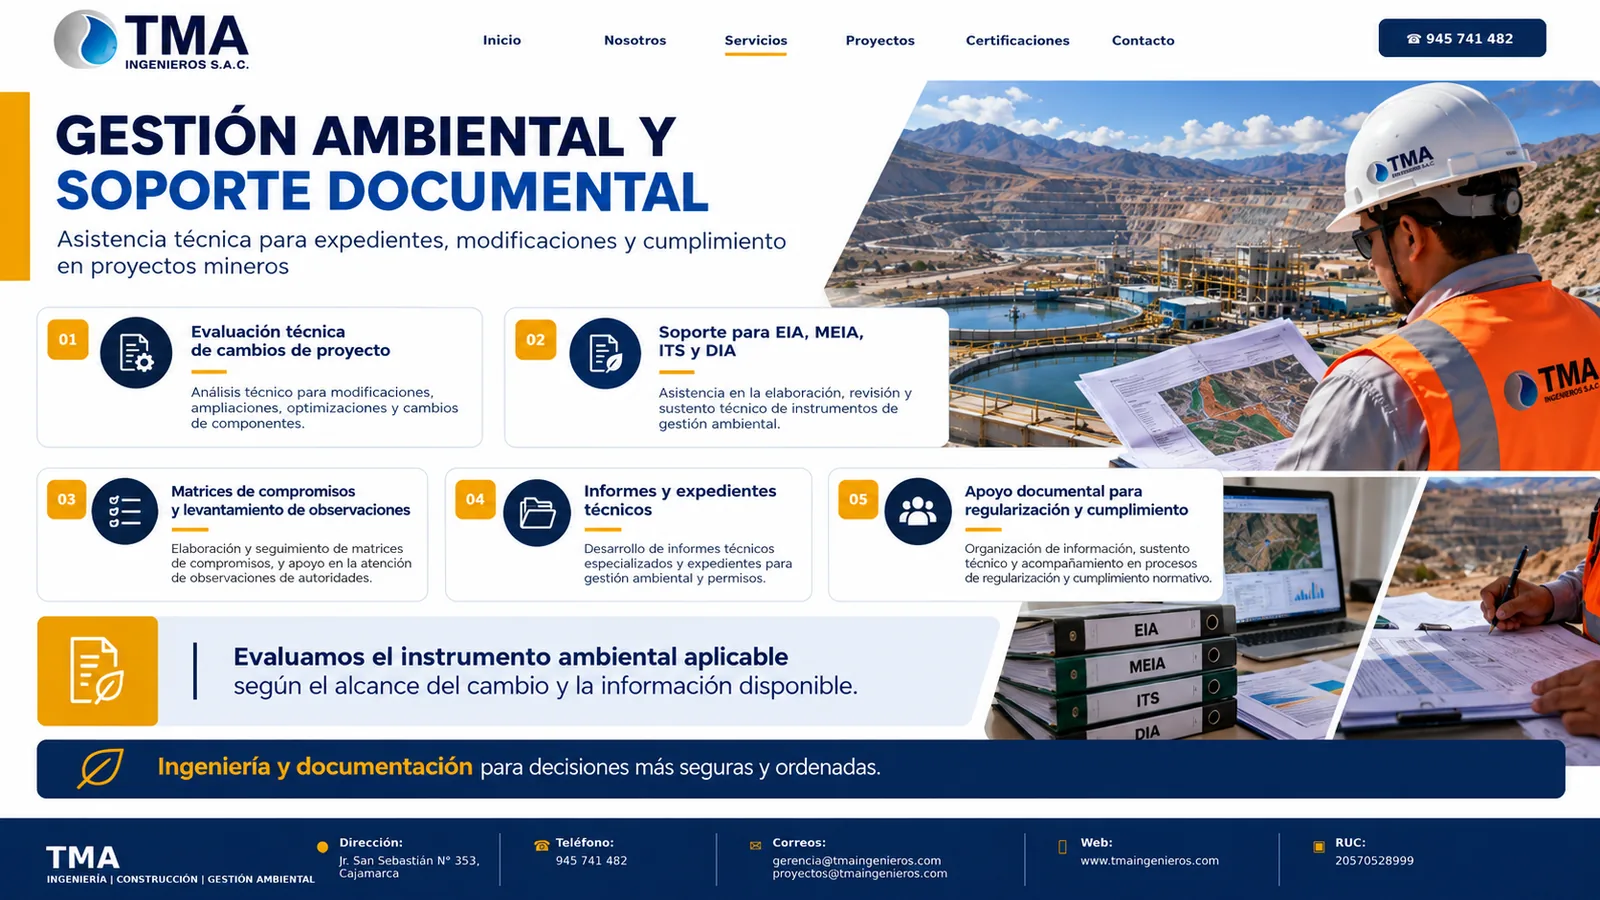
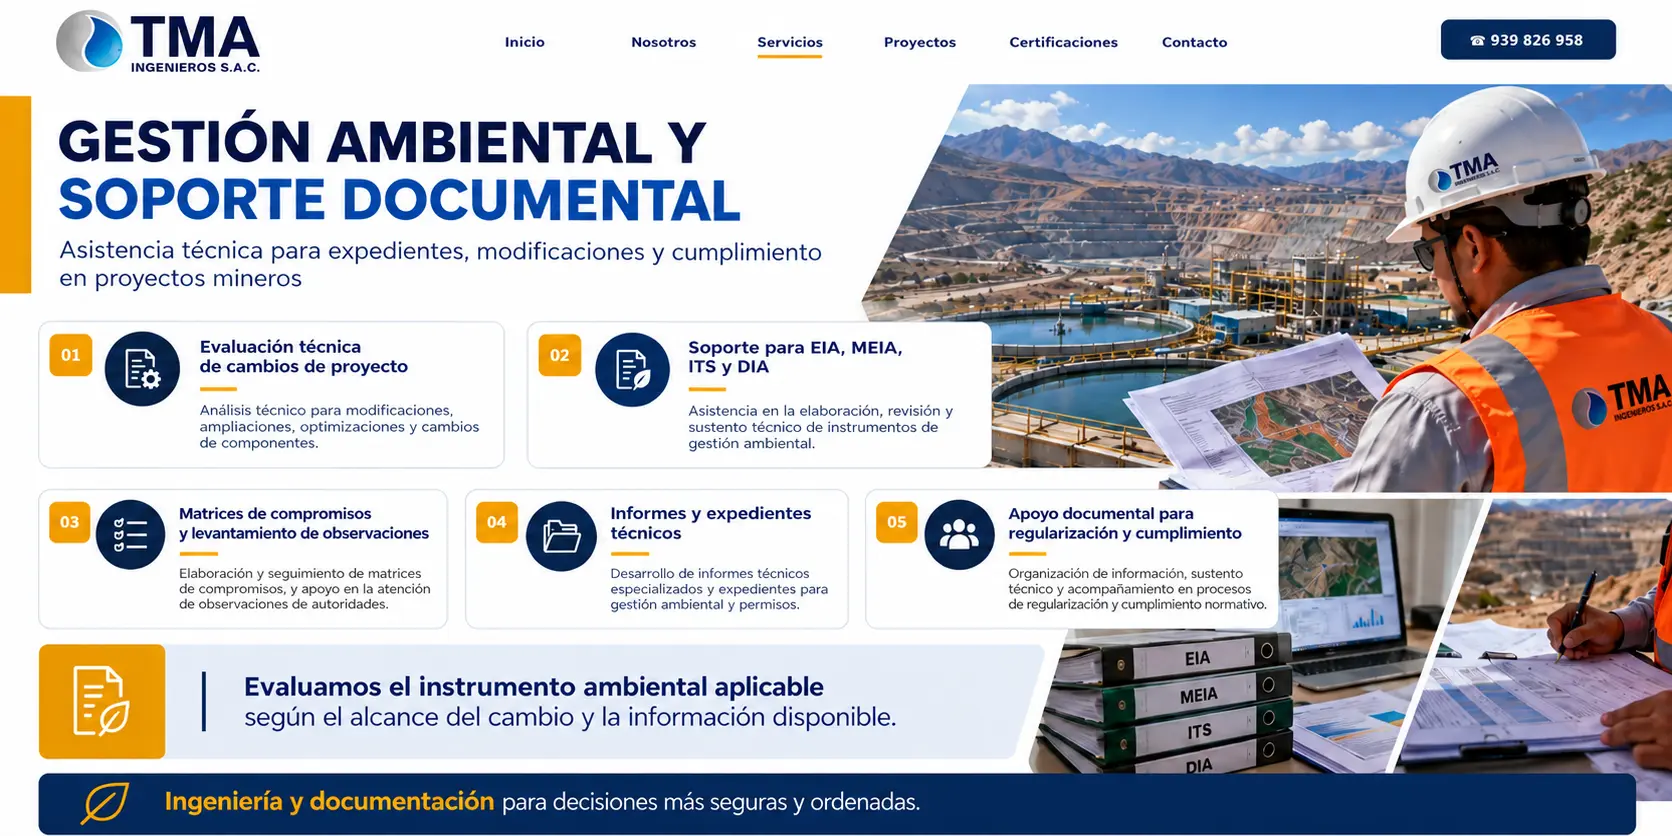
Ajustes: WhatsApp, tabla experiencias sin sustento, inicio y asistencial remota

diff --git a/src/pages/Contacto.tsx b/src/pages/Contacto.tsx
@@ -9,17 +9,33 @@ const EMAILJS_SERVICE_ID = import.meta.env.VITE_EMAILJS_SERVICE_ID;
 const EMAILJS_TEMPLATE_ID = import.meta.env.VITE_EMAILJS_TEMPLATE_ID;
 const EMAILJS_PUBLIC_KEY = import.meta.env.VITE_EMAILJS_PUBLIC_KEY;
 const CONTACT_EMAIL = 'proyectos@tmaingenieros.com';
+const WHATSAPP_NUMBER = '51945741482';
+
+const buildWhatsAppUrl = (form: { nombre: string; email: string; telefono: string; asunto: string; mensaje: string }) => {
+    const text = [
+        'Hola, quiero solicitar una propuesta técnica.',
+        `Nombre: ${form.nombre}`,
+        `Correo: ${form.email}`,
+        form.telefono ? `Teléfono: ${form.telefono}` : '',
+        `Asunto: ${form.asunto}`,
+        `Mensaje: ${form.mensaje}`,
+    ]
+        .filter(Boolean)
+        .join('\n');
+
+    return `https://wa.me/${WHATSAPP_NUMBER}?text=${encodeURIComponent(text)}`;
+};
 
 const contactInfo = [
     {
         icon: MapPin,
         title: 'Dirección',
-        lines: ['Jr. San Sebastián N° 353,', 'Cajamarca, Perú'],
+        lines: ['Jr. San Sebastián N° 353, Cajamarca, Perú', 'Av. Brasil 315 A, distrito de Alto Selva Alegre, Arequipa'],
     },
     {
         icon: Phone,
         title: 'Teléfono',
-        lines: ['945 741 482 / 939 826 958'],
+        lines: ['939 826 958'],
     },
     {
         icon: Mail,
@@ -64,8 +80,11 @@ export default function Contacto() {
         e.preventDefault();
         setError('');
 
+        window.open(buildWhatsAppUrl(form), '_blank', 'noopener,noreferrer');
+
         if (!EMAILJS_SERVICE_ID || !EMAILJS_TEMPLATE_ID || !EMAILJS_PUBLIC_KEY) {
-            setError(`El formulario no está configurado. Escríbenos a ${CONTACT_EMAIL}.`);
+            setForm({ nombre: '', email: '', telefono: '', asunto: '', mensaje: '' });
+            setSent(true);
             return;
         }
 
@@ -234,10 +253,10 @@ export default function Contacto() {
                         <span className="text-white">Hablemos de cómo podemos ayudarte a hacerlo realidad.</span>
                     </p>
                     <a
-                        href="tel:+51945741482"
+                        href="tel:+51939826958"
                         className="flex items-center gap-2 bg-[#f5a623] hover:bg-[#e0961b] text-white text-sm md:text-base font-semibold py-2.5 px-8 rounded transition-colors whitespace-nowrap"
                     >
-                        <Phone size={16} /> 945 741 482
+                        <Phone size={16} /> 939 826 958
                     </a>
                 </section>
 

diff --git a/src/pages/Proyectos.tsx b/src/pages/Proyectos.tsx
@@ -307,40 +307,6 @@ export default function Proyectos() {
                         ))}
                     </div>
 
-                    {/* Footer Sección 2 */}
-                    <NavLink to="/proyectos/experiencias" className="mt-8 bg-white rounded-lg p-5 flex flex-col md:flex-row items-center border border-gray-200 shadow-sm text-left" >
-                        <div className="flex items-center flex-1 mb-4 md:mb-0">
-                            <div
-                                className="w-12 h-12 rounded-full border-[2.5px] flex items-center justify-center shrink-0 mr-4"
-                                style={{ borderColor: COLORS.navy, color: COLORS.navy }}
-                            >
-                                <Droplet size={24} />
-                            </div>
-                            <div className="border-l-2 pl-4" style={{ borderColor: COLORS.yellow }}>
-                                <p className="font-bold text-[15px] sm:text-base leading-snug" style={{ color: COLORS.navy }}>
-                                    Experiencia adicional en Huanza, Minera Quinchía, La Arena
-                                    <br className="hidden sm:block" />
-                                    y proyectos complementarios de Yumpag y Julcani.
-                                </p>
-                            </div>
-                        </div>
-                        <div className="flex shrink-0">
-                            <ChevronRight size={36} className="opacity-20 -mr-5 text-gray-400 animate-chevron-wave" style={{ animationDelay: '0ms' }} />
-                            <ChevronRight size={36} className="opacity-40 -mr-5 text-gray-400 animate-chevron-wave" style={{ animationDelay: '150ms' }} />
-                            <ChevronRight size={36} className="opacity-70 -mr-5 text-gray-400 animate-chevron-wave" style={{ animationDelay: '300ms' }} />
-                            <ChevronRight size={36} className="animate-chevron-wave" style={{ color: COLORS.yellow, animationDelay: '450ms' }} />
-                        </div>
-
-                        <style>{`
-    @keyframes chevron-wave {
-        0%, 100% { opacity: 0.2; transform: translateX(0); }
-        50% { opacity: 1; transform: translateX(4px); }
-    }
-    .animate-chevron-wave {
-        animation: chevron-wave 1.2s ease-in-out infinite;
-    }
-`}</style>
-                    </NavLink>
                 </div>
             </section>
 

diff --git a/src/pages/Certificaciones.tsx b/src/pages/Certificaciones.tsx
@@ -172,9 +172,32 @@ export default function Certificaciones() {
                             REGISTRO SENACE
                         </h3>
 
-                        <p className="mb-5 max-w-2xl pr-0 text-[13px] font-medium leading-relaxed text-slate-700 sm:mb-6 pb-4 sm:pr-4 md:text-[12px] xl:text-[14px] ">
-                            Registro para el desarrollo de servicios y estudios ambientales vinculados a los subsectores minería, electricidad e hidrocarburos.
+                        <p className="mb-4 max-w-2xl pr-0 text-[13px] font-medium leading-relaxed text-slate-700 sm:pr-4 md:text-[12px] xl:text-[14px]">
+                            TMA INGENIEROS S.A.C. está inscrita en el registro del SENACE para el desarrollo de servicios y estudios ambientales en tres subsectores:
                         </p>
+
+                        <div className="mb-5 grid w-full grid-cols-1 gap-2 sm:grid-cols-3">
+                            {[
+                                { sector: "Electricidad", code: "1409-2026-ENE" },
+                                { sector: "Hidrocarburos", code: "1409-2026-ENE" },
+                                { sector: "Minería", code: "1409-2026-MIN" },
+                            ].map(({ sector, code }) => (
+                                <div
+                                    key={sector}
+                                    className="rounded-lg border border-slate-200 bg-slate-50 px-3 py-2 text-left"
+                                >
+                                    <p className="text-[10px] font-semibold uppercase tracking-wide text-slate-500">
+                                        {sector}
+                                    </p>
+                                    <p
+                                        className="text-[12px] font-extrabold leading-tight sm:text-[12.5px]"
+                                        style={{ color: NAVY }}
+                                    >
+                                        {code}
+                                    </p>
+                                </div>
+                            ))}
+                        </div>
 
                         <div className="flex flex-col items-start gap-5 xl:flex-row xl:items-start xl:justify-between w-full">
                             <ul className="flex-1 space-y-3 pr-0 sm:space-y-3.5 sm:pr-2 xl:pr-4 w-full">

diff --git a/src/pages/Inicio.tsx b/src/pages/Inicio.tsx
@@ -82,7 +82,7 @@ export default function Inicio() {
                         {/* Características */}
                         <div className="grid grid-cols-2 md:grid-cols-4 w-full xl:w-auto xl:flex-1 gap-y-4">
                             {[
-                                { icon: FileText, desc: 'Revisión de planos\ny memorias técnicas' },
+                                { icon: FileText, desc: 'Revisión, Elaboración de planos\ny documentos técnicos' },
                                 { icon: Video, desc: 'Reuniones virtuales\ncon especialistas' },
                                 { icon: Cloud, desc: 'Acceso seguro\na tu documentación' },
                                 { icon: ShieldCheck, desc: 'Respuestas rápidas\ny confiables' },
@@ -91,7 +91,7 @@ export default function Inicio() {
                                     <div className="w-11 h-11 md:w-12 md:h-12 rounded-full bg-gray-100 flex items-center justify-center">
                                         <item.icon size={22} strokeWidth={1.8} className="text-[#0a1c3f]" />
                                     </div>
-                                    <p className="text-[11px] md:text-[12px] font-semibold text-gray-700 whitespace-pre-line leading-tight">
+                                    <p className="text-[16px] md:text-[18px] font-semibold text-gray-700 whitespace-pre-line leading-tight">
                                         {item.desc}
                                     </p>
                                 </div>
@@ -113,7 +113,7 @@ export default function Inicio() {
                 <div className="w-full md:w-[65%] grid grid-cols-1 sm:grid-cols-2 md:grid-cols-4 gap-4 md:gap-3 md:h-[300px]">
                     {[
                         {
-                            title: 'Tratamiento y manejo de aguas',
+                            title: 'Tratamiento, manejo de aguas y relaves',
                             Icon: Droplets,
                             description: 'Diseño, construcción y operación de sistemas de tratamiento de aguas para mineria e industria.',
                             image: ImageCard1,

diff --git a/src/pages/TablaExperiencias.tsx b/src/pages/TablaExperiencias.tsx
@@ -230,7 +230,7 @@ export default function TablaExperiencias() {
       ========================================================= */}
       <section className="w-full px-5 sm:px-12 xl:px-16 pb-20 pt-6">
         <div className="w-full overflow-x-auto rounded-lg border border-gray-200 shadow-sm">
-          <div className="min-w-[1100px] bg-white">
+          <div className="min-w-[950px] bg-white">
 
             {/* Cabecera de la Tabla */}
             <div
@@ -241,7 +241,6 @@ export default function TablaExperiencias() {
               <div className="w-56 shrink-0">Cliente</div>
               <div className="w-64 shrink-0">Proyecto</div>
               <div className="flex-1 shrink-0">Alcance / servicio realizado</div>
-              <div className="w-32 shrink-0">Sustento</div>
             </div>
 
             {/* Cuerpo de la Tabla */}
@@ -271,11 +270,6 @@ export default function TablaExperiencias() {
                   {/* Alcance */}
                   <div className="flex-1 shrink-0 text-slate-600 font-medium pr-4">
                     {item.alcance}
-                  </div>
-
-                  {/* Sustento */}
-                  <div className="w-32 shrink-0 text-slate-500 font-medium">
-                    {item.sustento}
                   </div>
                 </div>
               ))}

diff --git a/src/components/common/Navbar.tsx b/src/components/common/Navbar.tsx
@@ -50,7 +50,7 @@ const Navbar: React.FC = () => {
           
           {/* CTA Button */}
           <a
-            href="tel:+51945741482"
+            href="tel:+51939826958"
             className="flex items-center gap-1.5 sm:gap-2 bg-[#0b1a4a] text-white px-2.5 sm:px-5 py-1.5 sm:py-2 rounded-md font-semibold hover:bg-[#162763] transition-colors text-xs sm:text-base whitespace-nowrap"
           >
             <svg
@@ -67,7 +67,7 @@ const Navbar: React.FC = () => {
             >
               <path d="M22 16.92v3a2 2 0 0 1-2.18 2 19.79 19.79 0 0 1-8.63-3.07 19.5 19.5 0 0 1-6-6 19.79 19.79 0 0 1-3.07-8.67A2 2 0 0 1 4.11 2h3a2 2 0 0 1 2 1.72 12.84 12.84 0 0 0 .7 2.81 2 2 0 0 1-.45 2.11L8.09 9.91a16 16 0 0 0 6 6l1.27-1.27a2 2 0 0 1 2.11-.45 12.84 12.84 0 0 0 2.81.7A2 2 0 0 1 22 16.92z" />
             </svg>
-            <span className="hidden min-[360px]:inline">945 741 482</span>
+            <span className="hidden min-[360px]:inline">939 826 958</span>
           </a>
 
           {/* Menú Hamburguesa (Solo Móviles) */}

diff --git a/src/components/common/Footer.tsx b/src/components/common/Footer.tsx
@@ -20,8 +20,8 @@ const TikTokIcon = ({ size = 18 }: { size?: number }) => (
 );
 
 const contactItems = [
-    { icon: MapPin, label: 'Dirección', value: 'Jr. San Sebastián N° 353, Cajamarca' },
-    { icon: Phone, label: 'Teléfono', value: '945 741 482 / 939 826 958' },
+    { icon: MapPin, label: 'Dirección', value: 'Jr. San Sebastián N° 353, Cajamarca\nAv. Brasil 315 A, Alto Selva Alegre, Arequipa' },
+    { icon: Phone, label: 'Teléfono', value: '939 826 958' },
     { icon: Mail, label: 'Correo', value: 'gerencia@tmaingenieros.com\nproyectos@tmaingenieros.com' },
     { icon: Globe, label: 'Web', value: 'www.tmaingenieros.com' },
     { icon: IdCard, label: 'RUC', value: '20570528999' },
